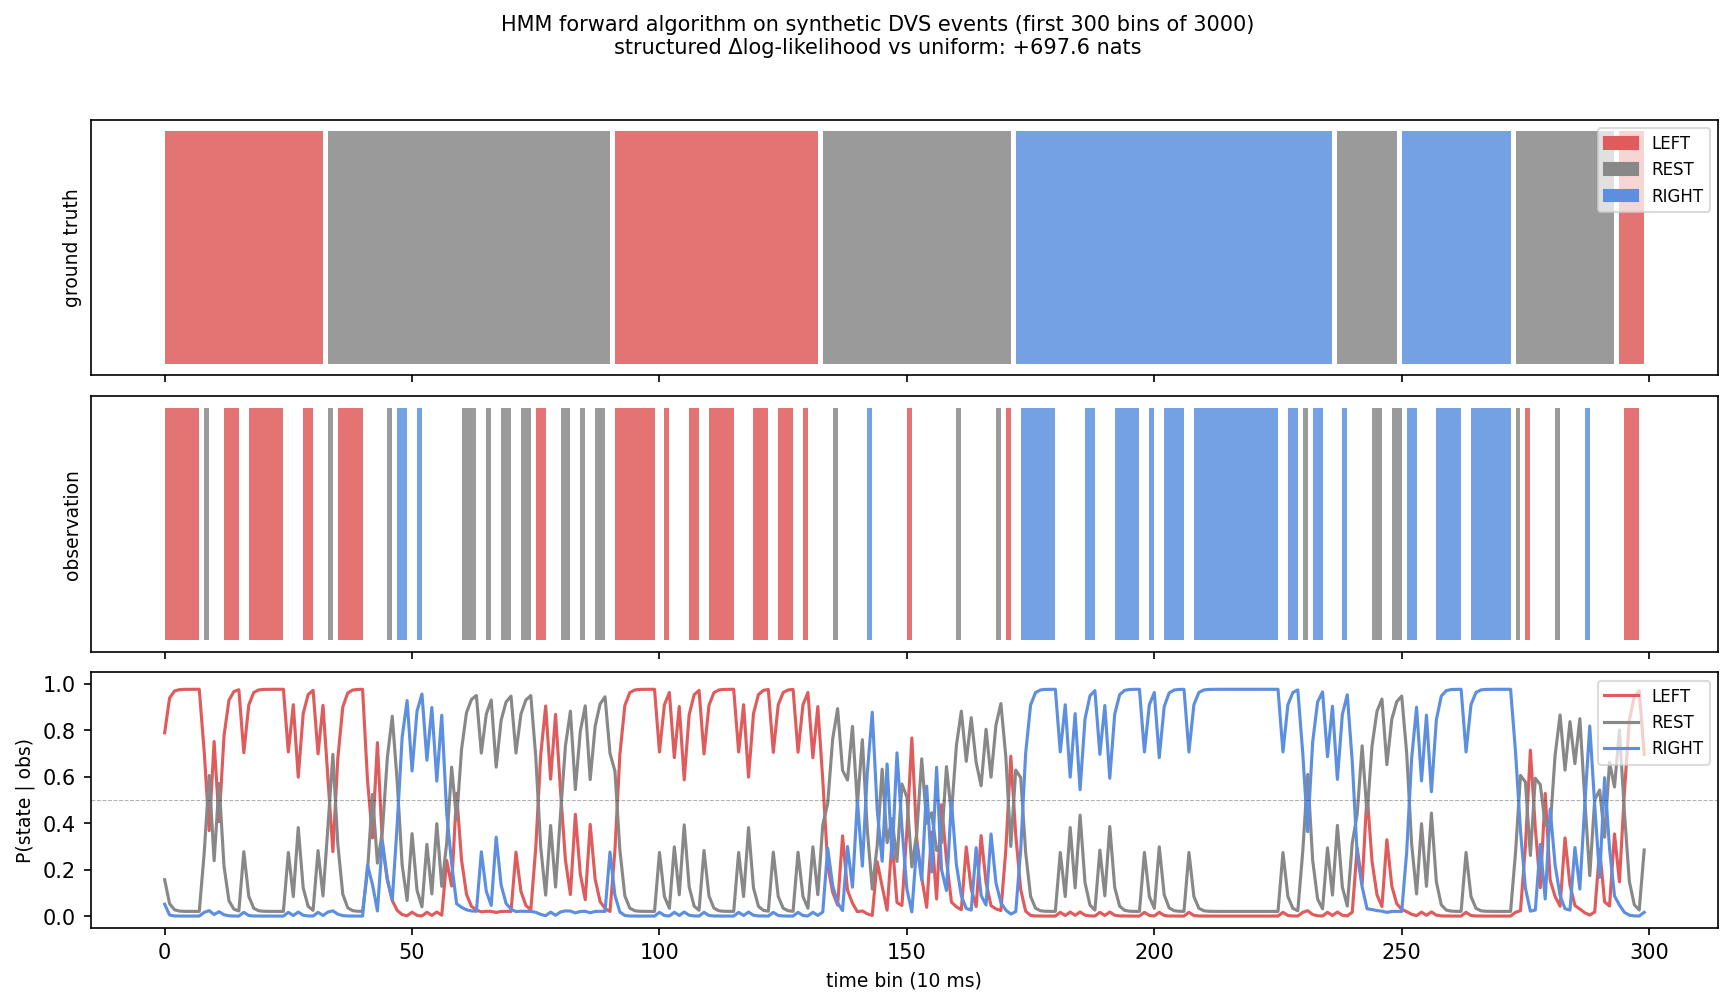
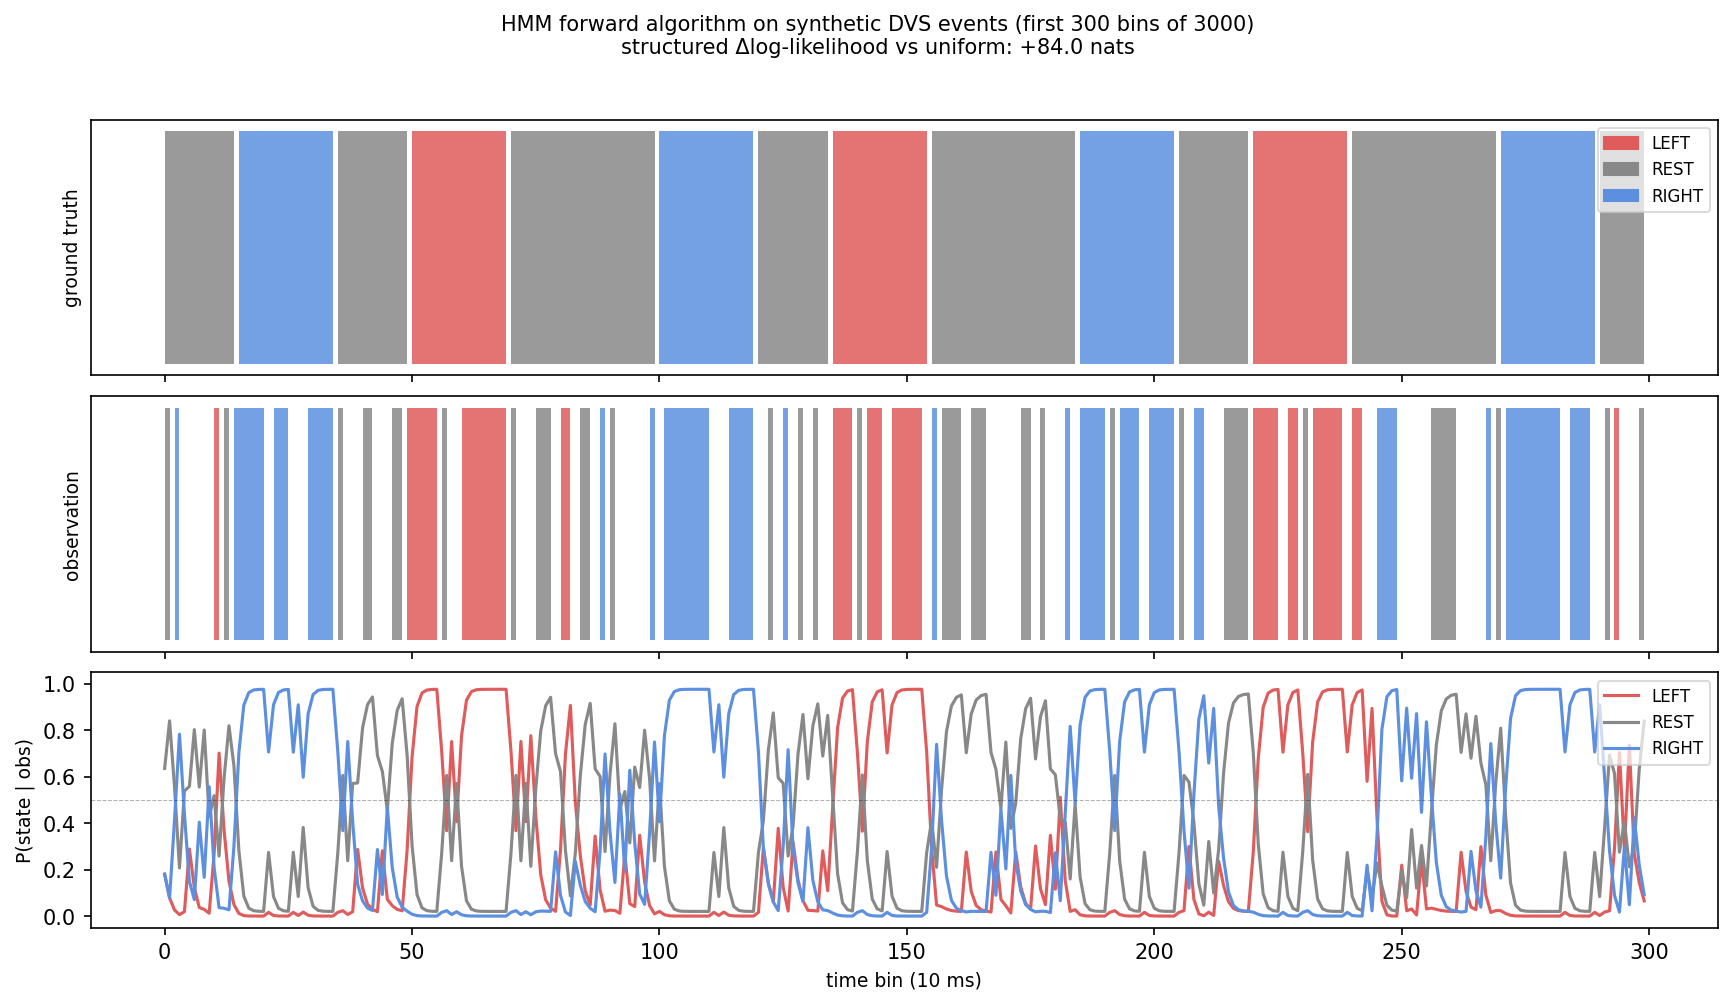
add forward trellis visualization

diff --git a/index.html b/index.html
@@ -40,10 +40,10 @@ h1 {
   max-width: 960px;
 }
 
-/* sensor column — spans all three rows */
+/* sensor column — spans all four rows */
 #p-sensor {
   grid-column: 1;
-  grid-row: 1 / 4;
+  grid-row: 1 / 5;
   background: #161b22;
   border: 1px solid #21262d;
   border-radius: 6px;
@@ -54,10 +54,11 @@ h1 {
   align-items: center;
 }
 
-/* three stacked panels on the right */
-#p-gt   { grid-column: 2; grid-row: 1; height: 60px; }
-#p-obs  { grid-column: 2; grid-row: 2; height: 60px; }
-#p-post { grid-column: 2; grid-row: 3; height: 160px; }
+/* four stacked panels on the right */
+#p-gt      { grid-column: 2; grid-row: 1; height: 60px; }
+#p-obs     { grid-column: 2; grid-row: 2; height: 60px; }
+#p-post    { grid-column: 2; grid-row: 3; height: 160px; }
+#p-trellis { grid-column: 2; grid-row: 4; height: 400px; }
 
 .panel {
   background: #161b22;
@@ -187,15 +188,21 @@ input[type=range] { width: 80px; accent-color: #388bfd; }
     <canvas id="post-canvas" width="730" height="136"></canvas>
   </div>
 
+  <div class="panel" id="p-trellis">
+    <div class="plabel">forward trellis &nbsp; α(t,j) = [Σᵢ α(t−1,i)·A[i,j]] · B[j,oₜ]</div>
+    <canvas id="trellis-canvas" style="width:730px;height:366px;"></canvas>
+  </div>
+
 </div>
 
 <div class="controls">
   <button id="btn-play">▶ play</button>
+  <button id="btn-next">⏭ next</button>
   <button id="btn-reset">↺ reset</button>
   <div class="speed-row">
     speed
-    <input type="range" id="speed" min="1" max="10" value="4">
-    <span id="spd-lbl">4×</span>
+    <input type="range" id="speed" min="0.05" max="2" step="0.05" value="1">
+    <span id="spd-lbl">1×</span>
   </div>
   <div class="ll" id="ll-txt"></div>
 </div>
@@ -220,6 +227,7 @@ let D = null, frame = 0, playing = false, raf = null, lastTs = -Infinity;
 
 fetch("plots/data.json").then(r => r.json()).then(d => {
   D = d;
+  initTrellisCanvas();
   document.getElementById("loading").style.opacity = 0;
   setTimeout(() => document.getElementById("loading").style.display = "none", 300);
   document.getElementById("ll-txt").textContent =
@@ -323,6 +331,205 @@ function drawPost(k) {
   pCtx.fillText("0.0", 2, H - 2);
 }
 
+// ── trellis ───────────────────────────────────────────────────────────────────
+const tCvs = document.getElementById("trellis-canvas");
+const tCtx = tCvs.getContext("2d");
+
+const T_WIN    = 5;
+const N_STATES = 3;
+const NODE_R   = 20;
+const RING_MAX = NODE_R + 12;      // max emission ring radius
+const PAD_LEFT = 90;
+const PAD_RIGHT= RING_MAX + 8;
+// top strip: obs label row + gap to first node
+const PAD_TOP  = 52;
+// bottom strip: ring + B= label + gap + t= row + legend row
+const PAD_BOT  = RING_MAX + 16 + 30 + 22;
+
+// DPR scaling — fix retina blur. Called once after data loads.
+function initTrellisCanvas() {
+  const dpr = window.devicePixelRatio || 1;
+  const css_w = 730, css_h = 366;
+  tCvs.width  = css_w * dpr;
+  tCvs.height = css_h * dpr;
+  tCtx.scale(dpr, dpr);
+  tCvs._cssW = css_w;
+  tCvs._cssH = css_h;
+}
+
+function trellisW() { return tCvs._cssW || 730; }
+function trellisH() { return tCvs._cssH || 366; }
+
+function trellisX(col) {
+  return PAD_LEFT + col * (trellisW() - PAD_LEFT - PAD_RIGHT) / (T_WIN - 1);
+}
+
+function trellisY(s) {
+  return PAD_TOP + s * (trellisH() - PAD_TOP - PAD_BOT) / (N_STATES - 1);
+}
+
+function normalisedAlpha(t) {
+  const la  = D.log_alpha[t];
+  const mx  = Math.max(...la);
+  const exp = la.map(v => Math.exp(v - mx));
+  const sum = exp.reduce((a, b) => a + b, 0);
+  return exp.map(v => v / sum);
+}
+
+function drawArrow(x1, y1, x2, y2, lw, color, opac) {
+  const angle  = Math.atan2(y2 - y1, x2 - x1);
+  const gap    = NODE_R + 2;
+  const sx = x1 + Math.cos(angle) * gap;
+  const sy = y1 + Math.sin(angle) * gap;
+  const ex = x2 - Math.cos(angle) * gap;
+  const ey = y2 - Math.sin(angle) * gap;
+  if (Math.hypot(ex - sx, ey - sy) < 1) return;
+
+  const hLen = Math.min(8, lw * 2.5);
+  tCtx.globalAlpha = opac;
+  tCtx.strokeStyle = color;
+  tCtx.lineWidth   = lw;
+  tCtx.beginPath(); tCtx.moveTo(sx, sy); tCtx.lineTo(ex, ey); tCtx.stroke();
+  tCtx.fillStyle = color;
+  tCtx.beginPath();
+  tCtx.moveTo(ex, ey);
+  tCtx.lineTo(ex - hLen * Math.cos(angle - 0.35), ey - hLen * Math.sin(angle - 0.35));
+  tCtx.lineTo(ex - hLen * Math.cos(angle + 0.35), ey - hLen * Math.sin(angle + 0.35));
+  tCtx.closePath(); tCtx.fill();
+  tCtx.globalAlpha = 1;
+}
+
+function drawTrellis(k) {
+  const W = trellisW(), H = trellisH();
+  tCtx.fillStyle = PANEL_BG;
+  tCtx.fillRect(0, 0, W, H);
+
+  const tStart = Math.max(0, k - T_WIN + 1);
+  const cols   = Math.min(k + 1, T_WIN);
+  const alpha  = Array.from({length: cols}, (_, c) => normalisedAlpha(tStart + c));
+
+  // ── obs label — top strip, centred on canvas, clear of all nodes ────────────
+  const OBS_NAMES = ["LEFT_FLOW", "NO_FLOW", "RIGHT_FLOW"];
+  const curObs    = D.obs[k];
+  tCtx.fillStyle  = COL[curObs];
+  tCtx.font       = "bold 11px monospace";
+  tCtx.textAlign  = "center";
+  tCtx.fillText(`current observation: ${OBS_NAMES[curObs]}`, W / 2, 18);
+
+  // t= labels sit at: bottom node centre + ring clearance + B= label height
+  const botNodeY = trellisY(N_STATES - 1);
+  const tLabelY  = botNodeY + RING_MAX + 30;
+  const legendY  = tLabelY + 20;
+
+  // ── t= labels ───────────────────────────────────────────────────────────────
+  tCtx.textAlign = "center";
+  for (let col = 0; col < cols; col++) {
+    const isNew = col === cols - 1;
+    tCtx.fillStyle = isNew ? "#8b949e" : "#3d444d";
+    tCtx.font      = isNew ? "bold 11px monospace" : "10px monospace";
+    tCtx.fillText(`t=${tStart + col}`, trellisX(col), tLabelY);
+  }
+
+  // ── edges ───────────────────────────────────────────────────────────────────
+  for (let col = 1; col < cols; col++) {
+    const isNew = col === cols - 1;
+    const raw   = [];
+    let edgeMax = 0;
+    for (let i = 0; i < N_STATES; i++) {
+      for (let j = 0; j < N_STATES; j++) {
+        const w = alpha[col - 1][i] * D.A[i][j];
+        raw.push(w);
+        if (w > edgeMax) edgeMax = w;
+      }
+    }
+    for (let i = 0; i < N_STATES; i++) {
+      for (let j = 0; j < N_STATES; j++) {
+        const norm = edgeMax > 0 ? raw[i * N_STATES + j] / edgeMax : 0;
+        drawArrow(
+          trellisX(col - 1), trellisY(i),
+          trellisX(col),     trellisY(j),
+          isNew ? Math.max(0.6, norm * 4.5) : Math.max(0.3, norm * 1.2),
+          COL[i],
+          isNew ? Math.max(0.12, norm * 0.88) : Math.max(0.02, norm * 0.1)
+        );
+      }
+    }
+  }
+
+  // ── nodes ───────────────────────────────────────────────────────────────────
+  for (let col = 0; col < cols; col++) {
+    const t     = tStart + col;
+    const isNew = col === cols - 1;
+    const dimF  = isNew ? 1 : 0.25 + (col / cols) * 0.25;
+
+    for (let s = 0; s < N_STATES; s++) {
+      const a = alpha[col][s];
+      const x = trellisX(col);
+      const y = trellisY(s);
+
+      // background disc
+      tCtx.globalAlpha = dimF;
+      tCtx.beginPath(); tCtx.arc(x, y, NODE_R, 0, Math.PI * 2);
+      tCtx.fillStyle = "#0d1117"; tCtx.fill();
+
+      // filled arc sized by α — never exceeds NODE_R
+      const fillR = Math.max(3, NODE_R * a);
+      tCtx.beginPath(); tCtx.arc(x, y, fillR, 0, Math.PI * 2);
+      tCtx.fillStyle = COL[s]; tCtx.fill();
+
+      // fixed border
+      tCtx.beginPath(); tCtx.arc(x, y, NODE_R, 0, Math.PI * 2);
+      tCtx.strokeStyle = COL[s];
+      tCtx.lineWidth   = isNew ? 2 : 1;
+      tCtx.stroke();
+      tCtx.globalAlpha = 1;
+
+      // emission ring (dashed) on newest column — radius encodes B[s, o_t]
+      if (isNew) {
+        const emit  = D.B[s][curObs];
+        const rRing = NODE_R + 4 + emit * 8;
+        tCtx.beginPath(); tCtx.arc(x, y, rRing, 0, Math.PI * 2);
+        tCtx.setLineDash([4, 4]);
+        tCtx.strokeStyle = "#aaaaaa";
+        tCtx.lineWidth   = 1.5;
+        tCtx.globalAlpha = 0.3 + emit * 0.6;
+        tCtx.stroke();
+        tCtx.setLineDash([]);
+        tCtx.globalAlpha = 1;
+
+        tCtx.fillStyle  = "#6e7681";
+        tCtx.font       = "10px monospace";
+        tCtx.textAlign  = "center";
+        tCtx.fillText(`B=${emit.toFixed(2)}`, x, y + rRing + 13);
+      }
+
+      // α value inside node for newest two columns
+      if (col >= cols - 2) {
+        tCtx.fillStyle   = a > 0.4 ? "#0d1117" : "#ffffff";
+        tCtx.font        = isNew ? "bold 11px monospace" : "10px monospace";
+        tCtx.textAlign   = "center";
+        tCtx.globalAlpha = isNew ? 1 : 0.5;
+        tCtx.fillText(a.toFixed(2), x, y + 4);
+        tCtx.globalAlpha = 1;
+      }
+    }
+  }
+
+  // ── state labels ────────────────────────────────────────────────────────────
+  tCtx.textAlign = "right";
+  tCtx.font      = "12px monospace";
+  for (let s = 0; s < N_STATES; s++) {
+    tCtx.fillStyle = COL[s];
+    tCtx.fillText(NAMES[s], PAD_LEFT - 26, trellisY(s) + 4);
+  }
+
+  // ── legend ──────────────────────────────────────────────────────────────────
+  tCtx.fillStyle  = "#3d444d";
+  tCtx.font       = "11px monospace";
+  tCtx.textAlign  = "left";
+  tCtx.fillText("node fill = α(t,s)   dashed ring = B[s,obs]   edge width = α(t-1,i)·A[i,j]", PAD_LEFT, legendY);
+}
+
 // ── main render ───────────────────────────────────────────────────────────────
 function render(k) {
   drawSensor(k);
@@ -330,18 +537,19 @@ function render(k) {
   drawGT(k);
   drawObs(k);
   drawPost(k);
+  drawTrellis(k);
 }
 
 // ── animation loop ────────────────────────────────────────────────────────────
+// 1× = real time: one 10ms bin per 10ms wall-clock → mspf = bin_ms / speed
 function loop(ts) {
   if (!playing) return;
   raf = requestAnimationFrame(loop);
-  const spd  = parseInt(document.getElementById("speed").value);
-  const mspf = 1000 / (spd * 10);
+  const spd  = parseFloat(document.getElementById("speed").value);
+  const mspf = D.bin_ms / spd;
   if (ts - lastTs < mspf) return;
   lastTs = ts;
-  if (frame >= D.T - 1) { playing = false; updateBtn(); return; }
-  frame++;
+  frame = (frame + 1) % D.T;
   render(frame);
 }
 
@@ -356,13 +564,21 @@ document.getElementById("btn-play").addEventListener("click", () => {
   else cancelAnimationFrame(raf);
 });
 
+document.getElementById("btn-next").addEventListener("click", () => {
+  if (!D) return;
+  playing = false; updateBtn(); cancelAnimationFrame(raf);
+  frame = (frame + 1) % D.T;
+  render(frame);
+});
+
 document.getElementById("btn-reset").addEventListener("click", () => {
   playing = false; updateBtn(); cancelAnimationFrame(raf);
   frame = 0; render(0);
 });
 
 document.getElementById("speed").addEventListener("input", e => {
-  document.getElementById("spd-lbl").textContent = e.target.value + "×";
+  const v = parseFloat(e.target.value);
+  document.getElementById("spd-lbl").textContent = v.toFixed(1) + "×";
 });
 </script>
 </body>

diff --git a/run_demo.py b/run_demo.py
@@ -6,6 +6,7 @@ import matplotlib.patches as mpatches
 from event_simulator import simulate, random_mode_sequence
 from observations import extract_observations
 from hmm import HMM
+from plot_trellis import animate_trellis
 
 A = np.array([
     [0.90, 0.08, 0.02],
@@ -21,13 +22,15 @@ pi  = np.array([1/3, 1/3, 1/3])
 BIN_MS = 10
 MAX_EVENTS_PER_BIN = 80  # cap for JSON size
 
-# ── simulate 30 s ─────────────────────────────────────────────────────────────
-modes  = random_mode_sequence(n_bins=3000, seed=42)
+# ── simulate ~5 s looping sequence (ends in REST to match start) ──────────────
+_unit = (["REST"]*15 + ["RIGHT"]*20 + ["REST"]*15 +
+         ["LEFT"]*20  + ["REST"]*15)  # 85 bins
+modes = (_unit * 6)[:510]
 events, gt = simulate(modes, bin_ms=BIN_MS)
 obs    = extract_observations(events, num_bins=len(modes), bin_ms=BIN_MS)
 
 # ── inference ─────────────────────────────────────────────────────────────────
-_, ll,   filtered = HMM(A, B, pi).forward(obs)
+log_alpha, ll, filtered = HMM(A, B, pi).forward(obs)
 _, ll_u, _        = HMM(np.full((3,3), 1/3), B, pi).forward(obs)
 
 print(f"structured  log-likelihood : {ll:.1f}")
@@ -68,6 +71,9 @@ payload = {
     "gt"        : gt,
     "obs"       : obs.tolist(),
     "filtered"  : [[round(p, 4) for p in row] for row in filtered.tolist()],
+    "log_alpha" : [[round(v, 4) for v in row] for row in log_alpha.tolist()],
+    "A"         : A.tolist(),
+    "B"         : B.tolist(),
     "bar_x"     : bar_positions,
     "events"    : bin_events,
     "ll"        : round(ll, 2),
@@ -124,3 +130,7 @@ fig.suptitle(
 plt.savefig("plots/demo.png", dpi=150, bbox_inches="tight")
 print("saved plots/demo.png")
 plt.show()
+
+animate_trellis(log_alpha, obs, A, B, gt,
+                output_path="plots/trellis.gif", fps=3,
+                t_start=0, t_end=100)

diff --git a/README.md b/README.md
@@ -18,6 +18,24 @@ The idea: a 5-pixel-wide vertical bar drifts across a 64×64 sensor, switching b
 
 The posterior closely follows the ground truth, lagging by a few bins at transitions. That lag is expected: the forward algorithm is causal and needs a handful of observations to shift its belief after a mode change.
 
+## Forward trellis visualization
+
+The interactive demo includes a forward trellis panel that shows the recursion happening step by step. Here is how to read it.
+
+**Layout** — columns are time steps, rows are the three hidden states (LEFT at top, REST in the middle, RIGHT at bottom). The window slides forward, keeping the 5 most recent bins visible. The rightmost column is always the step just computed.
+
+**Filled circles** — each circle represents one state at one time step. The filled area inside the circle encodes `α(t, s)`, the normalized forward probability for that state at that time. A nearly full circle means the algorithm is highly confident the system is in that state; a tiny sliver means it considers that state unlikely. The circle border is always fixed size so you can compare fills across nodes at a glance.
+
+**Dashed rings** — the dashed ring around each node in the rightmost column encodes `B[s, obs]`, the emission probability of the current observation given that state. A large ring means this state would readily explain what the sensor just saw; a small ring means the observation is surprising under that state. This is the scaling factor applied after the sum in the recursion.
+
+**Arrows** — each arrow from state `i` at `t−1` to state `j` at `t` represents one term inside the summation `Σᵢ α(t−1, i) · A[i,j]`. Arrow thickness encodes the magnitude of that term relative to the largest term in the same column. Thick arrows are the dominant paths contributing probability mass to the destination node; thin arrows are negligible paths. Historical arrows (not the most recent step) are dimmed so the active computation stands out.
+
+**B= numbers** — the value printed below each dashed ring is the exact emission probability `B[s, obs]` for that state given the current observation. It is the factor that multiplies the incoming sum to produce the final `α(t, s)`.
+
+**α numbers** — the value printed inside each node in the two rightmost columns is the normalized `α(t, s)`. The three values in any column sum to 1. Watching these numbers shift across a mode transition shows the algorithm gradually moving probability mass from one state to another over several bins.
+
+**What to look for** — at a mode transition, the dominant state's node starts shrinking while another state's node grows. This happens gradually because the self-transition probability is high (0.90), so the algorithm needs several consistent observations before it is willing to commit to a new state. That visible lag is the forward algorithm working exactly as intended.
+
 ## Parameters
 
 The HMM matrices are hand-set rather than learned. The transition matrix encodes a strong self-transition prior (0.90) with small probability of switching modes. The emission matrix reflects that LEFT motion mostly produces LEFT_FLOW but occasionally produces noise observations, and so on.